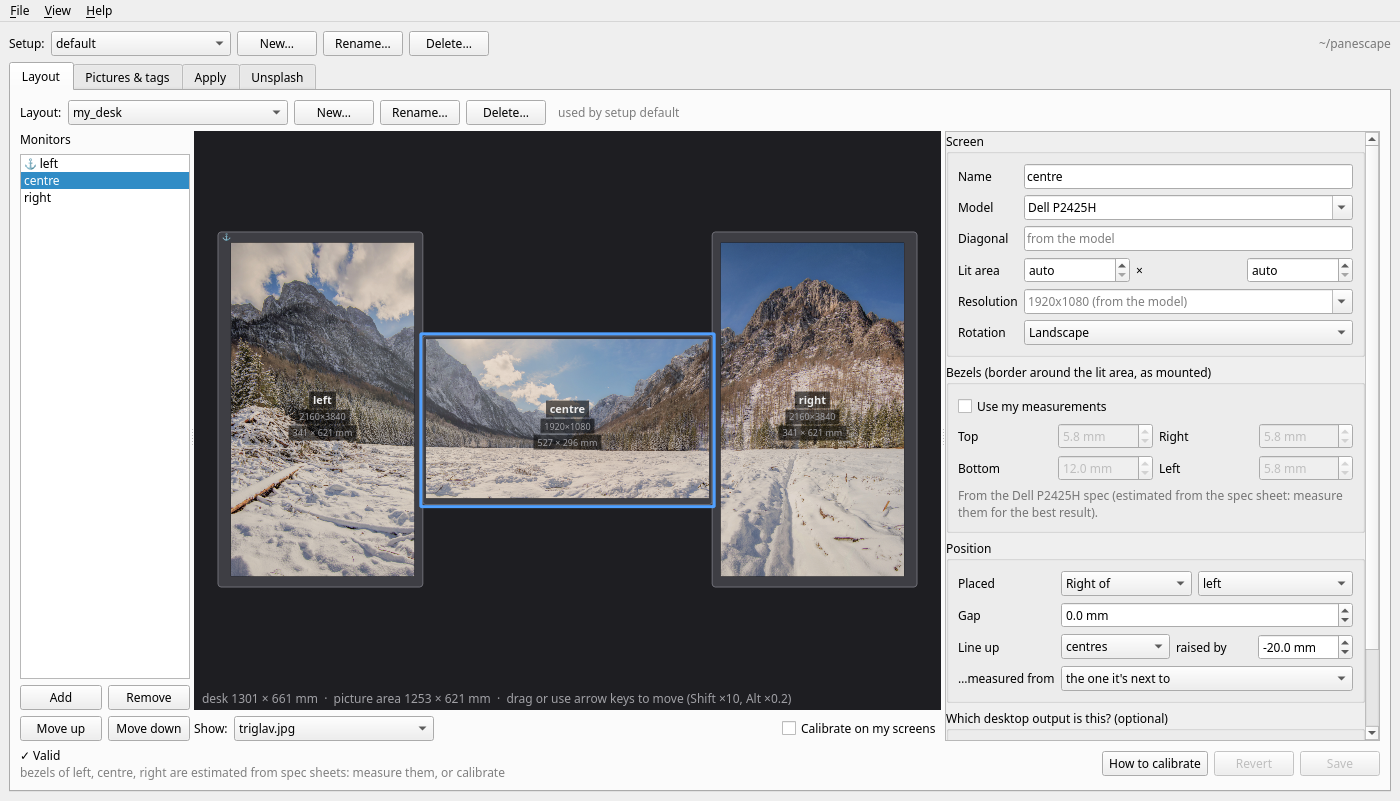
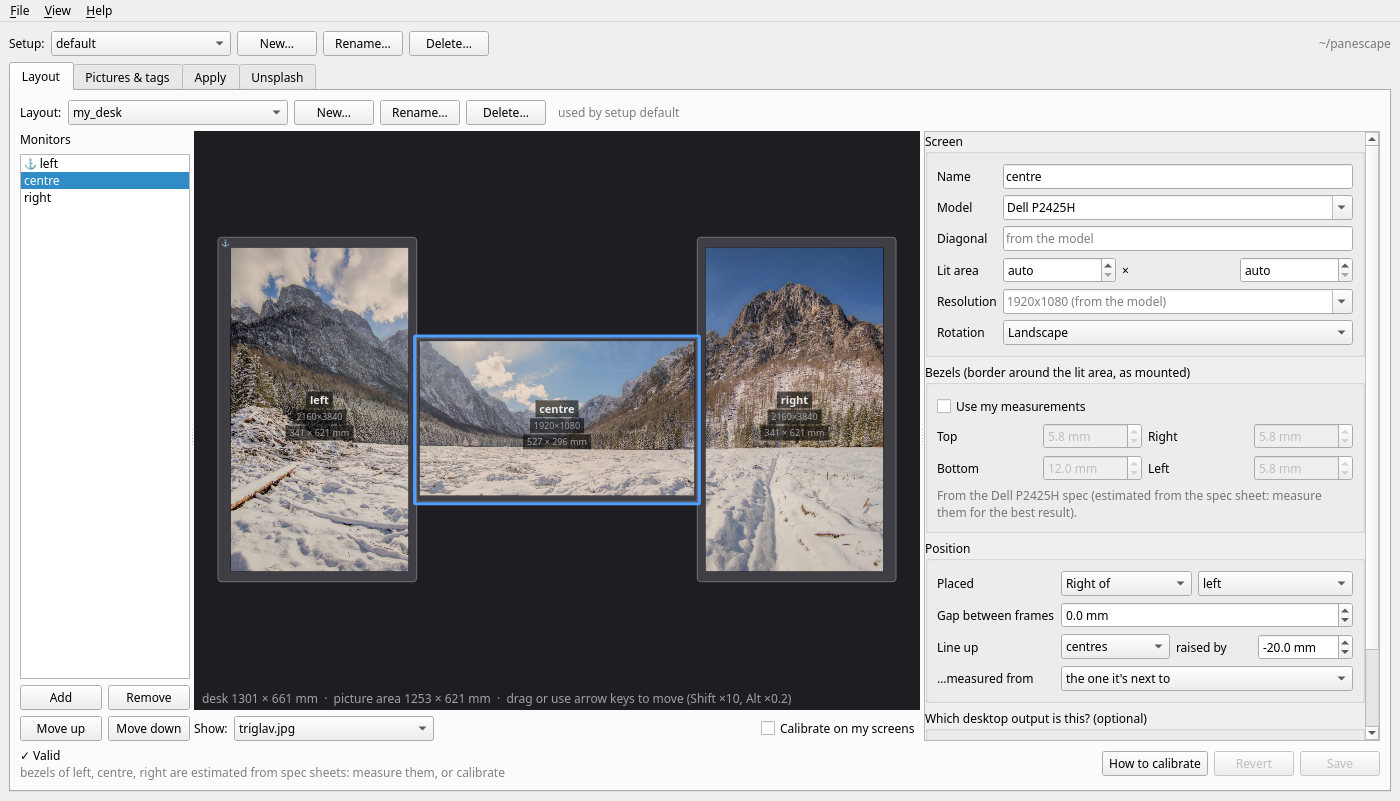
Make clear that 'gap' is the air between the frames; bezels add on top
The behaviour is unchanged: gap is measured between the monitors' outer
edges, so the space between two lit areas is bezel + gap + bezel. The window
now labels it "Gap between frames" with a tooltip, and the docs and the
example layouts say so. A test pins the behaviour down.

Claude-Session: https://claude.ai/code/session_01UizLdhCLWR8A1NgcTaBdXB

Changed region(s): [[0.1536, 0.1561, 0.9521, 0.9363], [0.8907, 0.3121, 0.9214, 0.3433]]

diff --git a/src/panescape/gui/layout_editor.py b/src/panescape/gui/layout_editor.py
@@ -187,9 +187,11 @@ class MonitorForm(QWidget):
         row.addWidget(self.target, 1)
         f.addRow("Placed", row)
         self.gap = mm_spin(-200, 2000)
-        self.gap.setToolTip("Space between the two housings (negative if they overlap)")
+        self.gap.setToolTip("The air gap between the two monitors' frames, as you'd measure it with a ruler.\n"
+                            "Bezels are not part of it: they're added on top. 0 = the frames touch;\n"
+                            "negative = one frame sits in front of the other.")
         self.gap.valueChanged.connect(lambda v: self._emit({"gap": number(v)}))
-        self.gap_label = QLabel("Gap")
+        self.gap_label = QLabel("Gap between frames")
         f.addRow(self.gap_label, self.gap)
         # side by side: vertical offset
         self.v_row = QWidget()

diff --git a/tests/test_geometry.py b/tests/test_geometry.py
@@ -40,6 +40,16 @@ def test_layout_positions():
     assert centre.active.x - centre.outer.x == pytest.approx(6)
 
 
+
+def test_gap_is_air_between_frames_and_bezels_add_on_top():
+    cfg = configuration_from_dict({"monitors": [
+        {"name": "a", "resolution": "FHD", "active_area": [500, 280], "bezel": 8},
+        {"name": "b", "resolution": "FHD", "active_area": [500, 280], "bezel": 6, "gap": 2},
+    ]})
+    a, b = compute_layout(cfg).placed
+    assert b.outer.x - a.outer.x1 == pytest.approx(2)        # the gap you measure with a ruler
+    assert b.active.x - a.active.x1 == pytest.approx(8 + 2 + 6)  # lit areas: bezel + gap + bezel
+
 def test_size_from_diagonal_and_legacy_form():
     cfg = configuration_from_dict({"monitors": {
         "layout": "LR", "edges": "joined",

diff --git a/src/panescape/config.py b/src/panescape/config.py
@@ -85,7 +85,7 @@ class Monitor:
     active_native: tuple[float, float]   # native landscape mm
     rotation: int = 0
     bezel: dict = field(default_factory=lambda: {s: 0.0 for s in SIDES})  # as mounted, mm
-    gap: float = 0.0                     # mm from previous monitor's housing; -ve = overlap
+    gap: float = 0.0                     # mm of air between the frames (bezels excluded); -ve = overlap
     v_pos: float = 0.0                   # mm, +ve = up, relative to v_ref
     v_align: str = "center"              # which edges v_pos is measured between
     v_ref: str | None = None             # monitor name (default: attached-to, else first monitor)

diff --git a/docs/configuration.md b/docs/configuration.md
@@ -17,7 +17,7 @@ monitors:
     resolution: FHD             # or 1920x1080, 4K, QHD, …; always the panel's native mode
     size: 24in                  # diagonal; or active_area: [527.04, 296.46] (landscape, mm)
     bezel: 6                    # all sides; or [top, right, bottom, left]
-    gap: 0                      # mm from the previous housing (negative = overlap)
+    gap: 0                      # mm of air between the frames; bezels not included
     v_pos: -20                  # mm, + is up, relative to the first monitor
     v_align: center             # measure v_pos between centres | tops | bottoms
 
@@ -47,11 +47,17 @@ Every monitor key:
 | `rotation` / `orientation` | GNOME Settings name, or `vertical` / `horizontal` |
 | `bezel` | Number, `[t, r, b, l]`, or `{left, right, top, bottom, x, y}`, measured **as mounted** |
 | `right_of` / `left_of` / `below` / `above` | Place this monitor next to another one, by name (see [Layouts](layouts.md)) |
-| `gap` | Distance between this housing and the one it's placed next to (negative = overlap) |
+| `gap` | The air gap in mm between this monitor's frame and the one it's placed next to, as measured with a ruler. Bezels are **not** part of it (see below) |
 | `v_pos`, `v_align`, `v_ref` | Side-by-side monitors: vertical offset (+ is up), which edges it's measured between (`center`/`top`/`bottom`), and the reference monitor |
 | `h_pos`, `h_align`, `h_ref` | Stacked monitors: horizontal offset (+ is right), which edges it's measured between (`center`/`left`/`right`), and the reference monitor |
 | `position` | `[x, y]` of the housing's top-left in mm (y down), for arrangements the keys above can't describe |
 | `serial` / `connector` / `product` | Pin to a specific screen. Without these, screens are matched to the desktop by their arrangement |
+
+**Gaps and bezels add up.** The distance between two screens' lit areas is one
+screen's bezel, plus the `gap`, plus the other screen's bezel. So `gap: 2` means a
+real 2 mm space between the frames, and `gap: 0` means the frames touch. A
+negative gap is only for frames that actually overlap, with one in front of the
+other; it doesn't mean the bezels are thinner than they are.
 
 `defaults:` at the top level sets `gap`, `bezel`, `v_align` or `h_align` for every monitor.
 

diff --git a/docs/layouts.md b/docs/layouts.md
@@ -11,6 +11,9 @@ don't go round in a circle.
 | Above or below | `below: NAME` or `above: NAME`, plus `gap` (vertical) and `h_pos` / `h_align` (horizontal offset from NAME, or `h_ref`) |
 | Anything else | `position: [x, y]`, the housing's top-left in mm |
 
+`gap` is the air between the two frames, as measured with a ruler. Each
+monitor's bezels are added on top of it, so `gap: 0` means the frames touch.
+
 A 2×2 grid ([full example](https://github.com/keo99/panescape/blob/main/examples/configurations/grid-2x2.yml)):
 
 ```yaml
